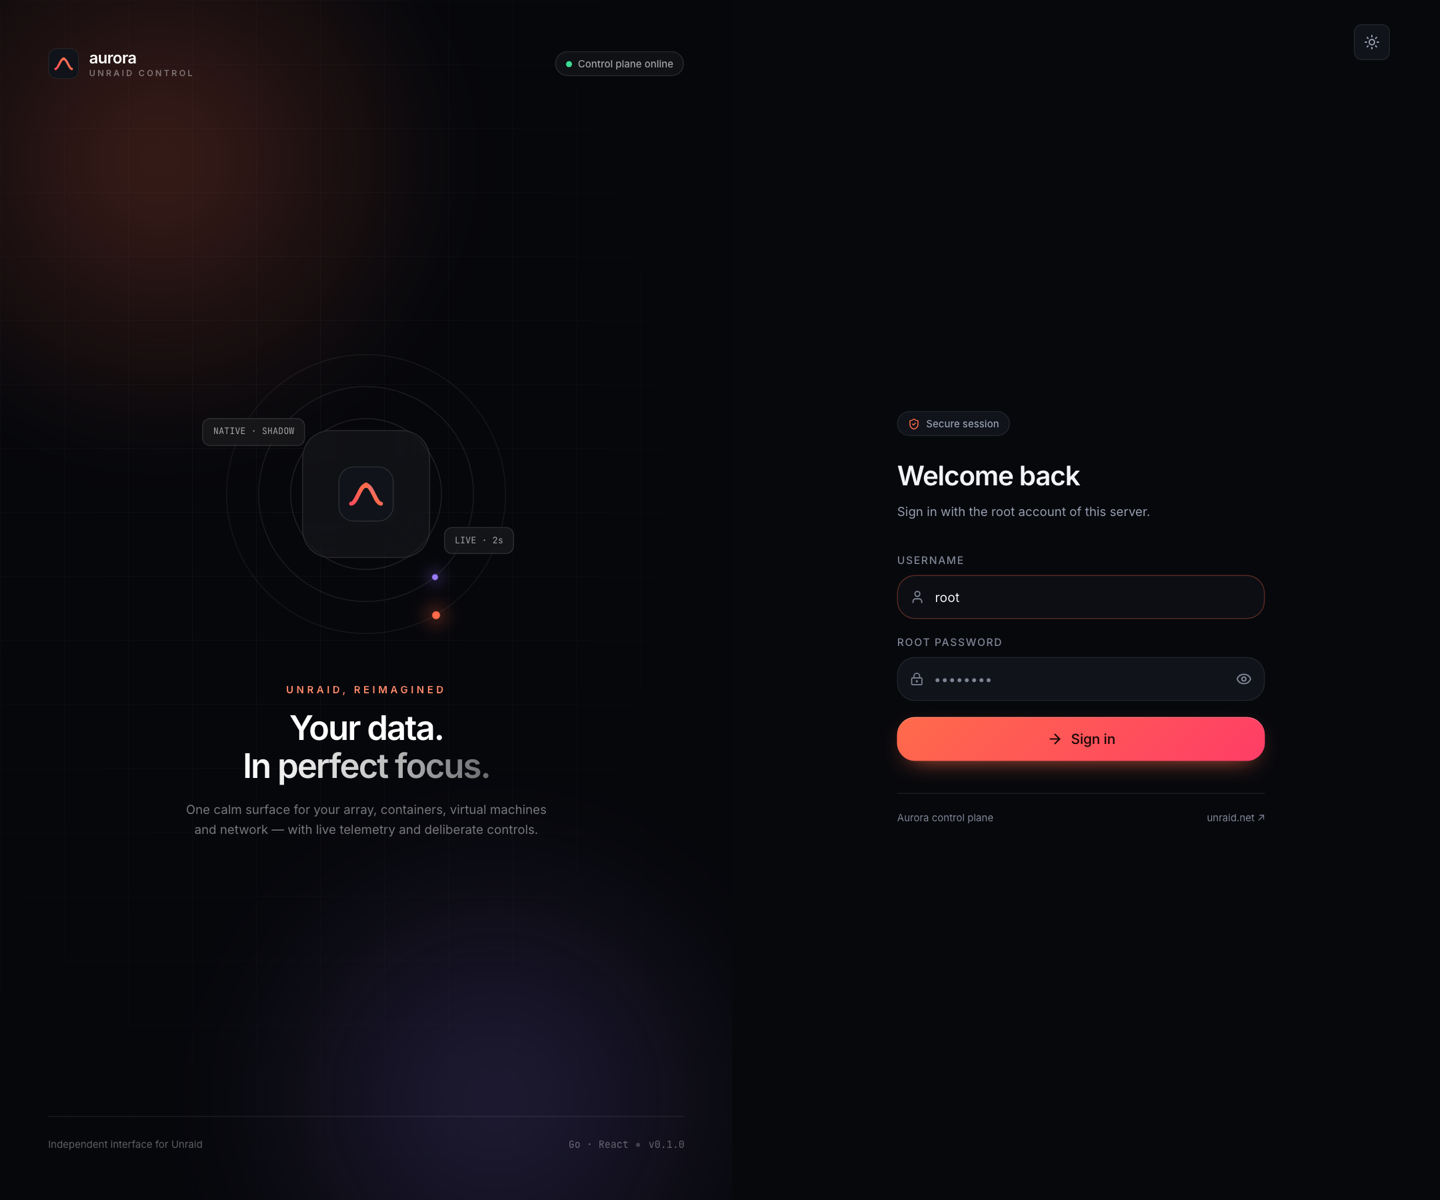
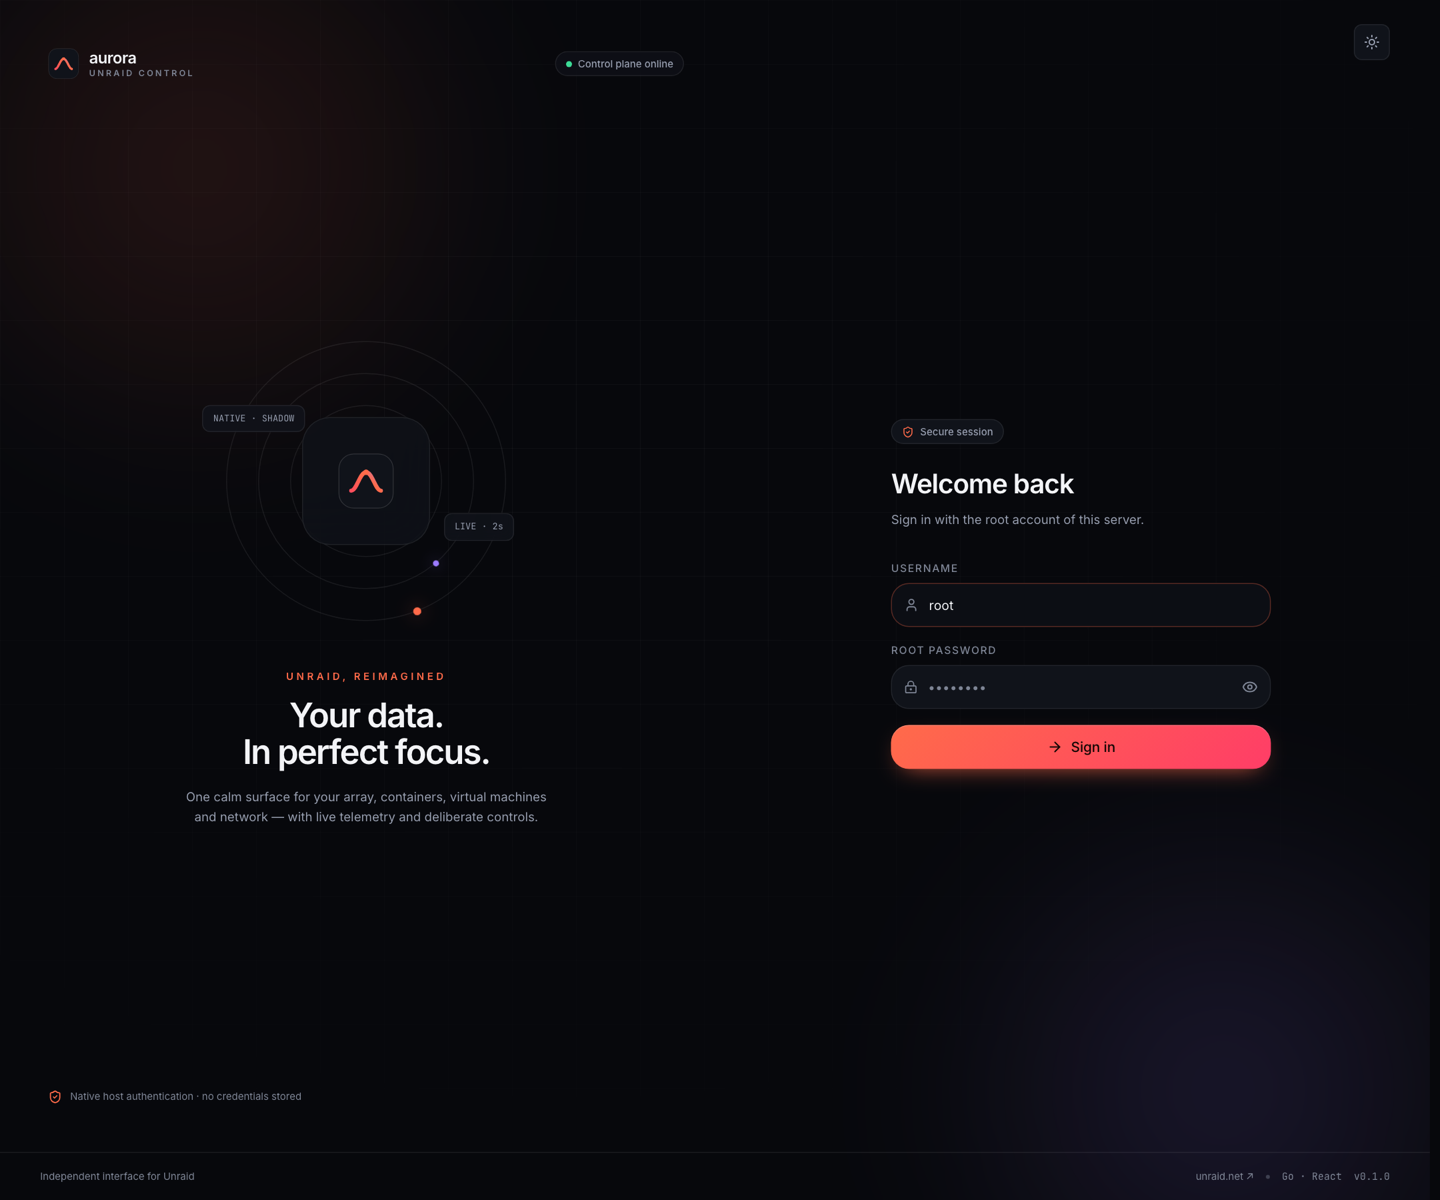
style: unify the login background and footer

diff --git a/frontend/src/pages/Login.tsx b/frontend/src/pages/Login.tsx
@@ -12,7 +12,7 @@ import {
   User,
 } from "lucide-react";
 import { AuroraMark, AuroraWordmark } from "../components/layout/Brand";
-import { Button, cn } from "../components/ui/primitives";
+import { Button } from "../components/ui/primitives";
 import { useApp } from "../app/AppDataProvider";
 import { useTheme } from "../app/ThemeProvider";
 import { useToast } from "../app/ToastProvider";
@@ -58,177 +58,178 @@ export function LoginPage() {
   };
 
   return (
-    <div className="relative grid min-h-dvh grid-cols-1 bg-[var(--bg)] lg:grid-cols-[1.05fr_1fr]">
-      {/* Visual panel --------------------------------------------------- */}
-      <section className="relative hidden overflow-hidden bg-[#06070b] lg:flex lg:flex-col lg:justify-between lg:p-12">
-        <div className="pointer-events-none absolute inset-0">
-          <div className="absolute -left-40 -top-40 size-[640px] rounded-full bg-[radial-gradient(circle,rgba(255,107,74,0.22),transparent_65%)] blur-2xl" />
-          <div className="absolute -bottom-52 right-[-10%] size-[620px] rounded-full bg-[radial-gradient(circle,rgba(155,123,255,0.18),transparent_65%)] blur-2xl" />
-          <div className="absolute inset-0 bg-[linear-gradient(rgba(255,255,255,0.035)_1px,transparent_1px),linear-gradient(90deg,rgba(255,255,255,0.035)_1px,transparent_1px)] bg-[size:64px_64px] [mask-image:radial-gradient(ellipse_70%_70%_at_40%_40%,black,transparent)]" />
-        </div>
+    <div className="relative flex min-h-dvh flex-col overflow-hidden bg-[var(--bg)]">
+      {/* Full-page atmosphere ------------------------------------------- */}
+      <div className="pointer-events-none absolute inset-0">
+        <div
+          className="absolute -left-40 -top-48 size-[720px] rounded-full blur-3xl"
+          style={{ background: "radial-gradient(circle, var(--accent-soft), transparent 65%)" }}
+        />
+        <div
+          className="absolute -bottom-60 right-[-10%] size-[700px] rounded-full blur-3xl"
+          style={{ background: "radial-gradient(circle, color-mix(in srgb, var(--violet) 14%, transparent), transparent 65%)" }}
+        />
+        <div className="absolute inset-0 opacity-50 [background-image:linear-gradient(to_right,var(--border)_1px,transparent_1px),linear-gradient(to_bottom,var(--border)_1px,transparent_1px)] [background-size:64px_64px] [mask-image:radial-gradient(ellipse_75%_65%_at_40%_35%,black,transparent)]" />
+      </div>
 
-        <div className="relative flex items-center justify-between">
-          <div className="[&_p]:!text-white [&_p:last-child]:!text-white/40">
+      <div className="relative z-10 grid flex-1 grid-cols-1 lg:grid-cols-[1.05fr_1fr]">
+        {/* Visual panel ------------------------------------------------- */}
+        <section className="relative hidden flex-col justify-between p-10 lg:flex xl:p-12">
+          <div className="flex items-center justify-between gap-4">
             <AuroraWordmark />
-          </div>
-          <span className="flex items-center gap-1.5 rounded-full border border-white/10 bg-white/[0.04] px-2.5 py-1 text-[10px] font-medium text-white/60 backdrop-blur">
-            <span className="size-1.5 rounded-full bg-[#3ddc97]" /> Control plane online
-          </span>
-        </div>
-
-        <div className="relative mx-auto flex w-full max-w-[520px] flex-col items-center">
-          <div className="relative grid size-[280px] place-items-center">
-            <div className="absolute inset-0 rounded-full border border-white/[0.06]" />
-            <div className="absolute inset-8 rounded-full border border-white/[0.08]" />
-            <div className="absolute inset-16 rounded-full border border-white/[0.1]" />
-            <div className="absolute inset-0 animate-spin-slow rounded-full">
-              <span className="absolute left-1/2 top-0 size-2 -translate-x-1/2 -translate-y-1/2 rounded-full bg-[#ff6b4a] shadow-[0_0_18px_4px_rgba(255,107,74,0.5)]" />
-            </div>
-            <div className="absolute inset-8 animate-[spin-slow_18s_linear_infinite_reverse] rounded-full">
-              <span className="absolute bottom-0 left-1/2 size-1.5 -translate-x-1/2 translate-y-1/2 rounded-full bg-[#9b7bff] shadow-[0_0_14px_3px_rgba(155,123,255,0.45)]" />
-            </div>
-            <div className="relative grid size-32 place-items-center rounded-3xl border border-white/10 bg-white/[0.04] backdrop-blur-xl">
-              <AuroraMark size={56} />
-            </div>
-            <span className="absolute -left-6 top-16 rounded-lg border border-white/10 bg-white/[0.05] px-2.5 py-1.5 font-mono text-[9px] text-white/60 backdrop-blur">
-              NATIVE · SHADOW
-            </span>
-            <span className="absolute -right-2 bottom-20 rounded-lg border border-white/10 bg-white/[0.05] px-2.5 py-1.5 font-mono text-[9px] text-white/60 backdrop-blur">
-              LIVE · 2s
+            <span className="flex items-center gap-1.5 rounded-full border border-line bg-[var(--surface-2)]/60 px-2.5 py-1 text-[10px] font-medium text-muted backdrop-blur">
+              <span className="size-1.5 rounded-full bg-[var(--success)]" /> Control plane online
             </span>
           </div>
 
-          <div className="mt-12 text-center">
-            <p className="text-[10px] font-semibold uppercase tracking-[0.3em] text-[#ff8a6b]">Unraid, reimagined</p>
-            <h1 className="mt-3 text-[34px] font-semibold leading-[1.1] tracking-[-0.04em] text-white">
-              Your data.
-              <br />
-              <span className="bg-gradient-to-r from-white via-white/80 to-white/40 bg-clip-text text-transparent">
-                In perfect focus.
+          <div className="relative mx-auto flex w-full max-w-[520px] flex-col items-center">
+            <div className="relative grid size-[280px] place-items-center">
+              <div className="absolute inset-0 rounded-full border border-line" />
+              <div className="absolute inset-8 rounded-full border border-line" />
+              <div className="absolute inset-16 rounded-full border border-line" />
+              <div className="absolute inset-0 animate-spin-slow rounded-full">
+                <span className="absolute left-1/2 top-0 size-2 -translate-x-1/2 -translate-y-1/2 rounded-full bg-[var(--accent)] shadow-[0_0_18px_4px_var(--accent-soft)]" />
+              </div>
+              <div className="absolute inset-8 animate-[spin-slow_18s_linear_infinite_reverse] rounded-full">
+                <span className="absolute bottom-0 left-1/2 size-1.5 -translate-x-1/2 translate-y-1/2 rounded-full bg-[var(--violet)] shadow-[0_0_14px_3px_var(--violet-soft)]" />
+              </div>
+              <div className="relative grid size-32 place-items-center rounded-3xl border border-line bg-[var(--surface-2)]/70 backdrop-blur-xl">
+                <AuroraMark size={56} />
+              </div>
+              <span className="absolute -left-6 top-16 rounded-lg border border-line bg-[var(--surface-2)]/80 px-2.5 py-1.5 font-mono text-[9px] text-muted backdrop-blur">
+                NATIVE · SHADOW
               </span>
-            </h1>
-            <p className="mx-auto mt-4 max-w-sm text-[12.5px] leading-relaxed text-white/45">
-              One calm surface for your array, containers, virtual machines and network — with live telemetry
-              and deliberate controls.
-            </p>
-          </div>
-        </div>
-
-        <div className="relative flex items-center justify-between border-t border-white/[0.07] pt-5 text-[10px] text-white/35">
-          <span>Independent interface for Unraid</span>
-          <span className="flex items-center gap-2">
-            <span className="font-mono">Go · React</span>
-            <span className="size-1 rounded-full bg-white/20" />
-            <span className="font-mono">v0.1.0</span>
-          </span>
-        </div>
-      </section>
-
-      {/* Form panel ----------------------------------------------------- */}
-      <section className="relative flex min-h-dvh flex-col px-5 py-6 sm:px-10">
-        <div className="pointer-events-none absolute inset-0 overflow-hidden lg:hidden">
-          <div className="app-atmosphere" />
-        </div>
-        <div className="relative flex items-center justify-between">
-          <div className="lg:hidden">
-            <AuroraWordmark />
-          </div>
-          <div className="ml-auto flex items-center gap-2">
-            <button
-              type="button"
-              onClick={() => setTheme(resolvedTheme === "dark" ? "light" : "dark")}
-              className="grid size-9 place-items-center rounded-lg border border-line bg-[var(--surface-2)] text-muted transition hover:text-ink"
-              aria-label="Toggle theme"
-            >
-              {resolvedTheme === "dark" ? <Sun className="size-4" /> : <Moon className="size-4" />}
-            </button>
-          </div>
-        </div>
-
-        <div className="relative mx-auto flex w-full max-w-[368px] flex-1 flex-col justify-center py-10">
-          <div className="mb-8">
-            <span className="inline-flex items-center gap-1.5 rounded-full border border-line bg-[var(--surface-2)] px-2.5 py-1 text-[10px] font-medium text-muted">
-              <ShieldCheck className="size-3 text-[var(--accent)]" /> Secure session
-            </span>
-            <h2 className="mt-5 text-[27px] font-semibold tracking-[-0.03em] text-ink">Welcome back</h2>
-            <p className="mt-1.5 text-[12.5px] text-muted">Sign in with the root account of this server.</p>
-          </div>
-
-          <form onSubmit={(event) => void submit(event)} className="space-y-4">
-            <div>
-              <label htmlFor="username" className="mb-1.5 block text-[10.5px] font-medium uppercase tracking-[0.1em] text-subtle">
-                Username
-              </label>
-              <div className="flex h-11 items-center gap-2.5 rounded-xl border border-line bg-[var(--surface-2)] px-3 transition focus-within:border-[var(--accent-line)] focus-within:bg-[var(--surface)]">
-                <User className="size-4 text-subtle" />
-                <input
-                  id="username"
-                  name="username"
-                  autoComplete="username"
-                  autoFocus
-                  value={username}
-                  onChange={(event) => setUsername(event.target.value)}
-                  placeholder="root"
-                  className="h-full w-full bg-transparent text-[13px] text-ink outline-none placeholder:text-subtle"
-                />
-              </div>
+              <span className="absolute -right-2 bottom-20 rounded-lg border border-line bg-[var(--surface-2)]/80 px-2.5 py-1.5 font-mono text-[9px] text-muted backdrop-blur">
+                LIVE · 2s
+              </span>
             </div>
 
-            <div>
-              <label htmlFor="password" className="mb-1.5 block text-[10.5px] font-medium uppercase tracking-[0.1em] text-subtle">
-                Root password
-              </label>
-              <div className="flex h-11 items-center gap-2.5 rounded-xl border border-line bg-[var(--surface-2)] px-3 transition focus-within:border-[var(--accent-line)] focus-within:bg-[var(--surface)]">
-                <LockKeyhole className="size-4 text-subtle" />
-                <input
-                  id="password"
-                  name="password"
-                  type={showPassword ? "text" : "password"}
-                  autoComplete="current-password"
-                  value={password}
-                  onChange={(event) => setPassword(event.target.value)}
-                  placeholder="••••••••"
-                  className="h-full w-full bg-transparent text-[13px] text-ink outline-none placeholder:text-subtle"
-                />
-                <button
-                  type="button"
-                  onClick={() => setShowPassword((value) => !value)}
-                  aria-label={showPassword ? "Hide password" : "Show password"}
-                  className="text-subtle transition hover:text-ink"
-                >
-                  {showPassword ? <EyeOff className="size-4" /> : <Eye className="size-4" />}
-                </button>
-              </div>
+            <div className="mt-12 text-center">
+              <p className="text-[10px] font-semibold uppercase tracking-[0.3em] text-[var(--accent)]">Unraid, reimagined</p>
+              <h1 className="mt-3 text-[34px] font-semibold leading-[1.1] tracking-[-0.04em] text-ink">
+                Your data.
+                <br />
+                <span className="text-ink">In perfect focus.</span>
+              </h1>
+              <p className="mx-auto mt-4 max-w-sm text-[12.5px] leading-relaxed text-muted">
+                One calm surface for your array, containers, virtual machines and network — with live telemetry
+                and deliberate controls.
+              </p>
+            </div>
+          </div>
+
+          <div className="flex items-center gap-2 text-[10px] text-subtle">
+            <ShieldCheck className="size-3.5 text-[var(--accent)]" />
+            Native host authentication · no credentials stored
+          </div>
+        </section>
+
+        {/* Form panel ---------------------------------------------------- */}
+        <section className="relative flex flex-col px-5 py-6 sm:px-10">
+          <div className="flex items-center justify-between">
+            <div className="lg:hidden">
+              <AuroraWordmark />
+            </div>
+            <div className="ml-auto flex items-center gap-2">
+              <button
+                type="button"
+                onClick={() => setTheme(resolvedTheme === "dark" ? "light" : "dark")}
+                className="grid size-9 place-items-center rounded-lg border border-line bg-[var(--surface-2)] text-muted transition hover:text-ink"
+                aria-label="Toggle theme"
+              >
+                {resolvedTheme === "dark" ? <Sun className="size-4" /> : <Moon className="size-4" />}
+              </button>
+            </div>
+          </div>
+
+          <div className="relative mx-auto flex w-full max-w-[380px] flex-1 flex-col justify-center py-10">
+            <div className="mb-8">
+              <span className="inline-flex items-center gap-1.5 rounded-full border border-line bg-[var(--surface-2)] px-2.5 py-1 text-[10px] font-medium text-muted">
+                <ShieldCheck className="size-3 text-[var(--accent)]" /> Secure session
+              </span>
+              <h2 className="mt-5 text-[27px] font-semibold tracking-[-0.03em] text-ink">Welcome back</h2>
+              <p className="mt-1.5 text-[12.5px] text-muted">Sign in with the root account of this server.</p>
             </div>
 
-            {error ? (
-              <div className="animate-fade-up rounded-xl border border-[color-mix(in_srgb,var(--danger)_24%,transparent)] bg-[var(--danger-soft)] px-3 py-2.5 text-[11px] text-[var(--danger)]">
-                {error}
+            <form onSubmit={(event) => void submit(event)} className="space-y-4">
+              <div>
+                <label htmlFor="username" className="mb-1.5 block text-[10.5px] font-medium uppercase tracking-[0.1em] text-subtle">
+                  Username
+                </label>
+                <div className="flex h-11 items-center gap-2.5 rounded-xl border border-line bg-[var(--surface-2)] px-3 transition focus-within:border-[var(--accent-line)] focus-within:bg-[var(--surface)]">
+                  <User className="size-4 text-subtle" />
+                  <input
+                    id="username"
+                    name="username"
+                    autoComplete="username"
+                    autoFocus
+                    value={username}
+                    onChange={(event) => setUsername(event.target.value)}
+                    placeholder="root"
+                    className="h-full w-full bg-transparent text-[13px] text-ink outline-none placeholder:text-subtle"
+                  />
+                </div>
               </div>
-            ) : null}
 
-            <Button
-              type="submit"
-              variant="primary"
-              size="lg"
-              loading={loading}
-              className="w-full"
-              icon={!loading ? <ArrowRight className="size-4" /> : undefined}
-            >
-              {loading ? "Signing in…" : "Sign in"}
-            </Button>
-          </form>
+              <div>
+                <label htmlFor="password" className="mb-1.5 block text-[10.5px] font-medium uppercase tracking-[0.1em] text-subtle">
+                  Root password
+                </label>
+                <div className="flex h-11 items-center gap-2.5 rounded-xl border border-line bg-[var(--surface-2)] px-3 transition focus-within:border-[var(--accent-line)] focus-within:bg-[var(--surface)]">
+                  <LockKeyhole className="size-4 text-subtle" />
+                  <input
+                    id="password"
+                    name="password"
+                    type={showPassword ? "text" : "password"}
+                    autoComplete="current-password"
+                    value={password}
+                    onChange={(event) => setPassword(event.target.value)}
+                    placeholder="••••••••"
+                    className="h-full w-full bg-transparent text-[13px] text-ink outline-none placeholder:text-subtle"
+                  />
+                  <button
+                    type="button"
+                    onClick={() => setShowPassword((value) => !value)}
+                    aria-label={showPassword ? "Hide password" : "Show password"}
+                    className="text-subtle transition hover:text-ink"
+                  >
+                    {showPassword ? <EyeOff className="size-4" /> : <Eye className="size-4" />}
+                  </button>
+                </div>
+              </div>
 
-          <div className={cn("mt-8 flex items-center justify-between border-t border-line pt-4 text-[10px] text-subtle")}>
-            <button type="button" onClick={() => setTheme(resolvedTheme)} className="hover:text-ink">
-              Aurora control plane
-            </button>
-            <a href="https://unraid.net" target="_blank" rel="noreferrer" className="hover:text-ink">
-              unraid.net ↗
-            </a>
+              {error ? (
+                <div className="animate-fade-up rounded-xl border border-[color-mix(in_srgb,var(--danger)_24%,transparent)] bg-[var(--danger-soft)] px-3 py-2.5 text-[11px] text-[var(--danger)]">
+                  {error}
+                </div>
+              ) : null}
+
+              <Button
+                type="submit"
+                variant="primary"
+                size="lg"
+                loading={loading}
+                className="w-full"
+                icon={!loading ? <ArrowRight className="size-4" /> : undefined}
+              >
+                {loading ? "Signing in…" : "Sign in"}
+              </Button>
+            </form>
           </div>
-        </div>
-      </section>
+        </section>
+      </div>
+
+      <footer className="relative z-10 flex flex-wrap items-center justify-between gap-2 border-t border-line px-5 py-4 text-[10px] text-subtle sm:px-10">
+        <span>Independent interface for Unraid</span>
+        <span className="flex items-center gap-3">
+          <a href="https://unraid.net" target="_blank" rel="noreferrer" className="transition hover:text-ink">
+            unraid.net ↗
+          </a>
+          <span className="hidden size-1 rounded-full bg-[var(--subtle)]/40 sm:block" />
+          <span className="font-mono">Go · React</span>
+          <span className="font-mono">v0.1.0</span>
+        </span>
+      </footer>
     </div>
   );
 }
